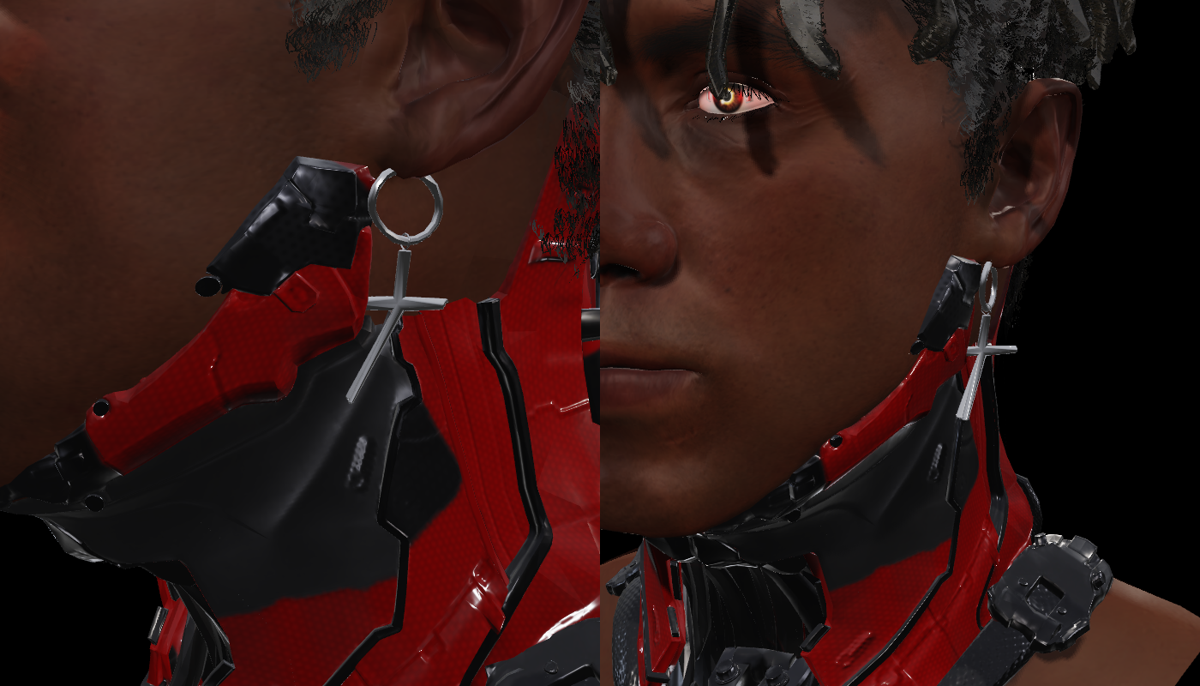
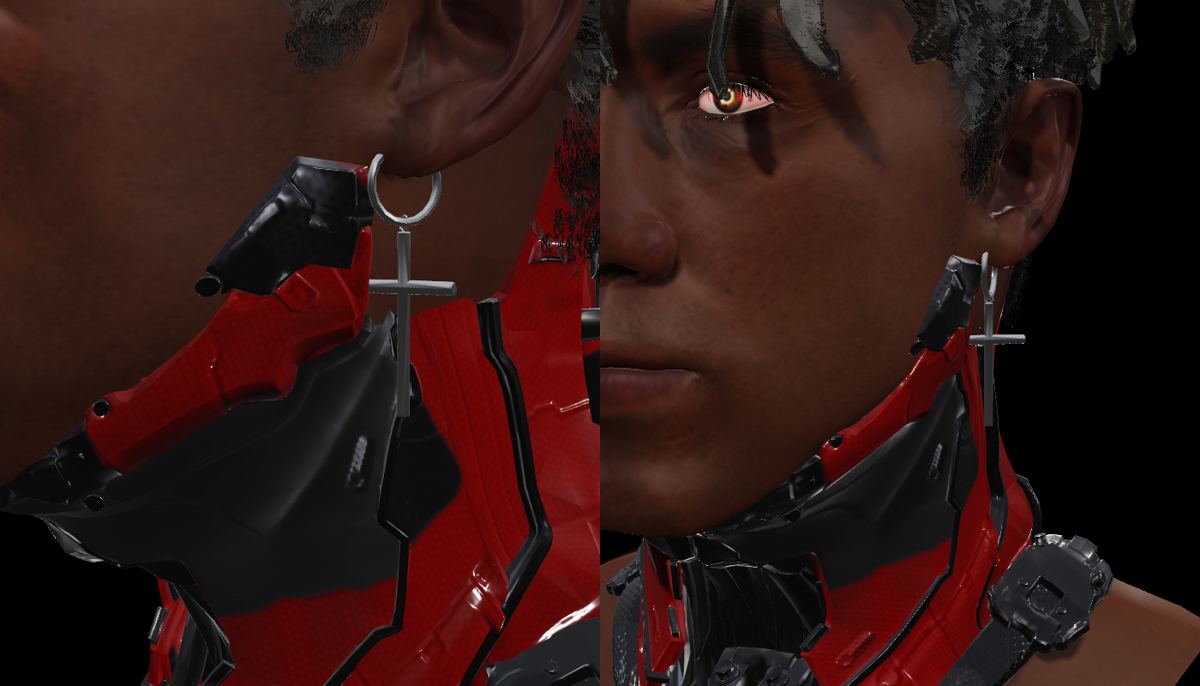
STAGING: earring moved rigidly (no bend), hoop seated 5mm up into the lobe
Claude-Session: https://claude.ai/code/session_019USJoTMPWkGMgSSejE2vqd

Changed region(s): [[0.2775, 0.2143, 0.4008, 0.6122], [0.8017, 0.3673, 0.8633, 0.6122]]

diff --git a/tools/head1.py b/tools/head1.py
@@ -214,7 +214,12 @@ import rdar as _rd3
 _kw=_rd3.Archive('/home/claude/work/new1/src/mods/kwek_earrings06.archive'); _kwf={f['hash']:f for f in _kw.files}
 EARRING=mesh.decode(_kw.extract(_kwf[names.fnv('kwek\\items\\clothing\\face\\earrings_06\\earrings_06.mesh')]))['subs'][0]
 _et=EARRING['idx'].reshape(-1,3); _keep=EARRING['pos'][_et].mean(1)[:,0]<0
-_ER=dict(EARRING,idx=_et[_keep].ravel()); _q=warp_from_vanilla(_ER['pos'])
+_ER=dict(EARRING,idx=_et[_keep].ravel())
+# rigid: a per-vertex warp bends the metal, so move the whole earring by the warp at its hoop (top), then seat the hoop
+_used=np.unique(_ER['idx']); _top=_used[np.argsort(_ER['pos'][_used,2])[-12:]]
+_d=(warp_from_vanilla(_ER['pos'][_top])-_ER['pos'][_top]).mean(0)
+EARRING_LIFT=float(os.environ.get('EARRING_LIFT','0.005'))          # hoop up into the lobe so it reads as pierced
+_q=_ER['pos']+_d+np.array([0,0,EARRING_LIFT])
 parts.append(dict(pos=_q,idx=_ER['idx'],uv=_ER['uv0'],tex=Image.open('/home/claude/work/staging/ear06_albedo.png').convert('RGBA'),alpha=0,name='earring'))
 # Takemura neck cyberware: ml_h1_001_ma_cyberware__takemura.mlsetup baked (titanium / cast iron / enamel / red tech plastic)
 CWA=np.asarray(Image.open('/home/claude/work/staging/cw_albedo.png').convert('RGB')).astype(np.float32)
